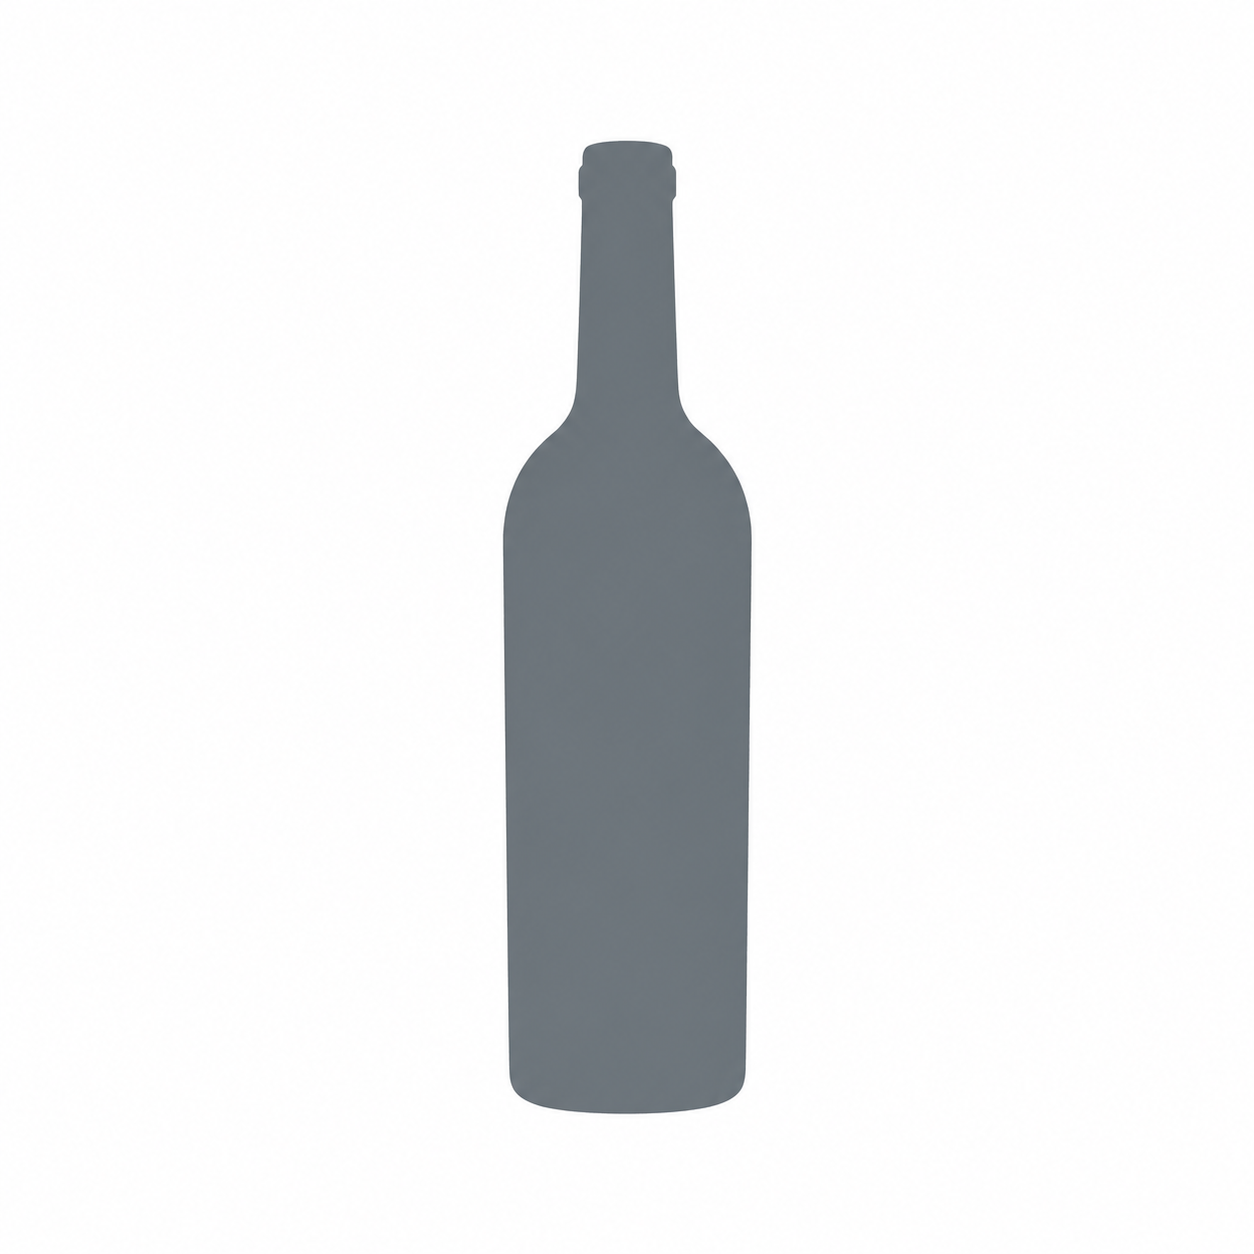
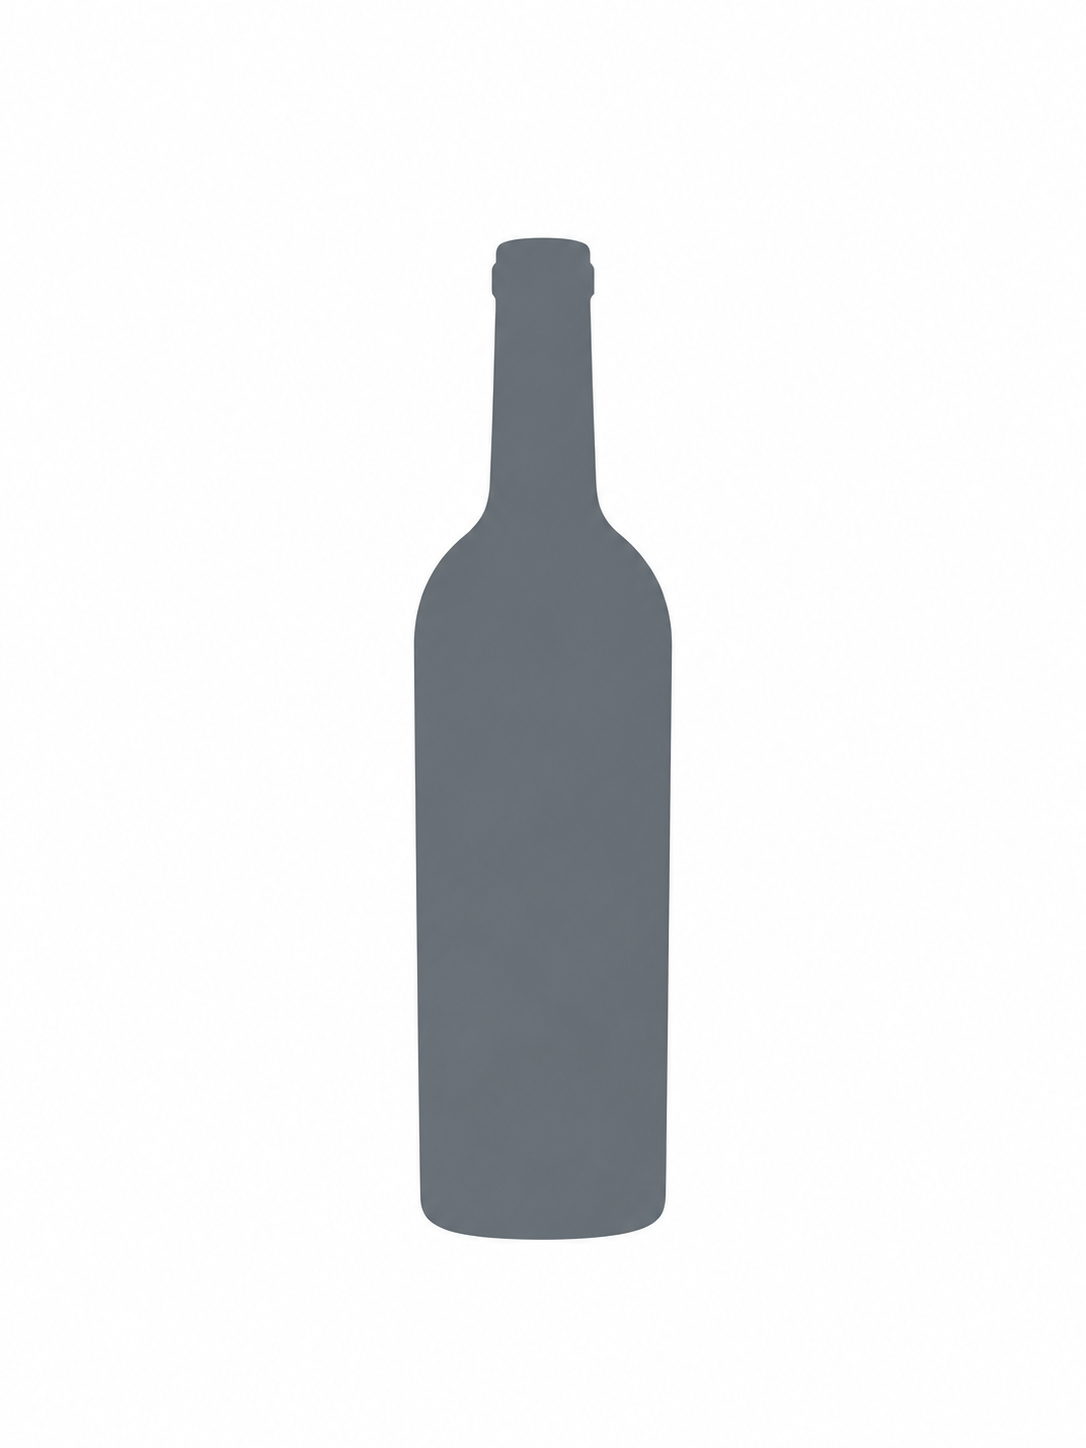
feat: 와인 카드 이미지 표시 및 전체 선택·해제 개선

Changed region(s): [[0.3646, 0.3732, 0.6381, 0.9019], [0.4254, 0.0933, 0.547, 0.3732], [0.547, 0.3421, 0.5773, 0.3732]]

diff --git a/web/src/app/feature/wine-list-select/ui/ExtractedWineSection.stories.tsx b/web/src/app/feature/wine-list-select/ui/ExtractedWineSection.stories.tsx
@@ -1,13 +1,19 @@
 import type { Meta, StoryObj } from "@storybook/nextjs-vite";
+import { useState } from "react";
+import { expect, userEvent, within } from "storybook/test";
 import type { ExtractedWine } from "@/app/entity/wine/model/wine.type";
 import ExtractedWineSection from "./ExtractedWineSection";
 
-function makeWine(overrides: Partial<ExtractedWine> & { id: string }): ExtractedWine {
+function makeWine(
+  overrides: Partial<ExtractedWine> & { id: string },
+): ExtractedWine {
   return {
     wineName: "클라우디 베이 소비뇽 블랑",
     vintage: 2023,
     alcohol: "12.5% ~ 13.0%",
-    price: [{ amount: 55000, currency: "KRW", currencySign: "₩", koreanUnit: "원" }],
+    price: [
+      { amount: 55000, currency: "KRW", currencySign: "₩", koreanUnit: "원" },
+    ],
     country: "New Zealand",
     region: "Marlborough",
     tannin: 1,
@@ -55,18 +61,56 @@ const meta: Meta<typeof ExtractedWineSection> = {
     wines,
     selectedWineIds: ["22222222-2222-4222-8222-222222222222"],
   },
-  render: (args) => (
-    <div className="w-[390px] max-w-full bg-background-03 p-4">
-      <ExtractedWineSection {...args} />
-    </div>
-  ),
+  render: function StatefulSection(args) {
+    const [selectedWineIds, setSelectedWineIds] = useState(
+      args.selectedWineIds,
+    );
+    return (
+      <div className="w-[390px] max-w-full bg-background-03 p-4">
+        <ExtractedWineSection
+          {...args}
+          selectedWineIds={selectedWineIds}
+          onToggleWine={(id) =>
+            setSelectedWineIds((ids) =>
+              ids.includes(id)
+                ? ids.filter((value) => value !== id)
+                : [...ids, id],
+            )
+          }
+        />
+      </div>
+    );
+  },
 };
 
 export default meta;
 
 type Story = StoryObj<typeof ExtractedWineSection>;
 
-export const Default: Story = {};
+export const Default: Story = {
+  play: async ({ canvasElement }) => {
+    const canvas = within(canvasElement);
+    await userEvent.click(canvas.getByRole("button", { name: "전체 선택" }));
+    await expect(canvas.getByText("3개 선택")).toBeVisible();
+    for (const checkbox of canvas.getAllByRole("checkbox"))
+      await expect(checkbox).toBeChecked();
+    await userEvent.click(canvas.getByRole("button", { name: "전체 해제" }));
+    for (const checkbox of canvas.getAllByRole("checkbox"))
+      await expect(checkbox).not.toBeChecked();
+    await expect(
+      canvas.getByRole("button", { name: "전체 선택" }),
+    ).toBeVisible();
+  },
+};
+
+export const Empty: Story = {
+  args: { wines: [], selectedWineIds: [] },
+  play: async ({ canvasElement }) => {
+    await expect(
+      within(canvasElement).getByRole("button", { name: "전체 선택" }),
+    ).toBeDisabled();
+  },
+};
 
 export const NoneSelected: Story = {
   args: { selectedWineIds: [] },

diff --git a/web/src/app/feature/wine-list-select/ui/ExtractedWineCard.stories.tsx b/web/src/app/feature/wine-list-select/ui/ExtractedWineCard.stories.tsx
@@ -1,4 +1,5 @@
 import type { Meta, StoryObj } from "@storybook/nextjs-vite";
+import { expect, fn, userEvent, within } from "storybook/test";
 import type { ExtractedWine } from "@/app/entity/wine/model/wine.type";
 import ExtractedWineCard from "./ExtractedWineCard";
 
@@ -32,6 +33,7 @@ const meta: Meta<typeof ExtractedWineCard> = {
   args: {
     wine: baseWine,
     isSelected: false,
+    onToggle: fn(),
   },
   render: (args) => (
     <div className="w-[360px] max-w-full bg-background-03 p-4">
@@ -44,7 +46,16 @@ export default meta;
 
 type Story = StoryObj<typeof ExtractedWineCard>;
 
-export const Default: Story = {};
+export const Default: Story = {
+  play: async ({ canvasElement, args }) => {
+    const image = canvasElement.querySelector("img")!;
+    await expect(image).toHaveAttribute("src", "/images/wines/wine-white.png");
+    const rect = image.parentElement!.getBoundingClientRect();
+    expect(rect.width / rect.height).toBeCloseTo(3 / 4, 2);
+    await userEvent.click(within(canvasElement).getByRole("checkbox"));
+    await expect(args.onToggle).toHaveBeenCalledWith(baseWine.id);
+  },
+};
 
 export const Selected: Story = {
   args: { isSelected: true },
@@ -53,6 +64,12 @@ export const Selected: Story = {
 export const NotCatalogMatched: Story = {
   args: {
     wine: { ...baseWine, isCatalogMatched: false, wineBottleImageUrl: null },
+  },
+  play: async ({ canvasElement }) => {
+    const canvas = within(canvasElement);
+    await expect(canvasElement.querySelector("img")).toHaveAttribute("src", "/images/wines/wine-bottle.png");
+    await expect(canvas.getByText("이미지 준비중")).toBeVisible();
+    await expect(canvas.getByText("이미지 준비중")).toHaveStyle({ whiteSpace: "pre-line" });
   },
 };
 

diff --git a/web/src/app/feature/wine-list-select/ui/ExtractedWineSection.tsx b/web/src/app/feature/wine-list-select/ui/ExtractedWineSection.tsx
@@ -1,4 +1,5 @@
 import { cn } from "@/app/utils/style/helper";
+import Button from "@/app/shared/ui/atom/button";
 import ExtractedWineCard from "./ExtractedWineCard";
 import type { ExtractedWineSectionProps } from "./wine-list-select.props";
 
@@ -16,16 +17,31 @@ export default function ExtractedWineSection({
   className,
 }: ExtractedWineSectionProps) {
   const selectedSet = new Set(selectedWineIds);
+  const selectedCount = wines.filter((wine) => selectedSet.has(wine.id)).length;
+  const allSelected = wines.length > 0 && selectedCount === wines.length;
+  const toggleAll = () => {
+    for (const wine of wines) {
+      if (allSelected || !selectedSet.has(wine.id)) onToggleWine(wine.id);
+    }
+  };
 
   return (
     <section className={cn("w-full", className)}>
       <div className="flex items-center justify-between gap-3">
-        <h2 className="text-[16px] font-bold leading-none text-ink-emphasis">
-          {title}
-        </h2>
-        {selectedSet.size > 0 ? (
+        <h2 className="sr-only">{title}</h2>
+        <Button
+          htmlType="button"
+          variant="text"
+          radius="full"
+          disabled={wines.length === 0}
+          onClick={toggleAll}
+          className="min-h-11 border border-white/70 bg-white/30 px-3 py-2 text-[13px] font-bold text-primary shadow-none hover:bg-white/50"
+        >
+          {allSelected ? "전체 해제" : "전체 선택"}
+        </Button>
+        {selectedCount > 0 ? (
           <p className="text-[13px] font-bold text-primary">
-            {selectedSet.size}개 선택
+            {selectedCount}개 선택
           </p>
         ) : null}
       </div>

diff --git a/web/src/app/feature/wine-pairing-chat/ui/WineRecommendationSlide.stories.tsx b/web/src/app/feature/wine-pairing-chat/ui/WineRecommendationSlide.stories.tsx
@@ -116,8 +116,11 @@ export const NoImage: Story = {
   },
   play: async ({ canvasElement }) => {
     const canvas = within(canvasElement);
-    await expect(canvas.getByText("준비중...")).toBeVisible();
-    await expect(canvasElement.querySelector("img")).toBeInTheDocument();
+    await expect(canvas.getByText("이미지 준비중")).toBeVisible();
+    await expect(canvasElement.querySelector("img")).toHaveAttribute("src", "/images/wines/wine-bottle.png");
+    await expect(canvas.getByText("이미지 준비중")).toHaveStyle({ whiteSpace: "pre-line" });
+    const imageRect = canvasElement.querySelector("img")!.parentElement!.getBoundingClientRect();
+    expect(imageRect.width / imageRect.height).toBeCloseTo(3 / 4, 2);
     await expect(canvasElement.querySelector("[data-wine-image-skeleton]")).not.toBeInTheDocument();
   },
 };
@@ -178,8 +181,8 @@ export const CompletedWithoutImage: Story = {
     await expect(canvasElement.querySelector("[data-wine-image-skeleton]")).toBeInTheDocument();
     await userEvent.click(canvas.getByRole("button", { name: "추천 완료" }));
     await expect(canvasElement.querySelector("[data-wine-image-skeleton]")).not.toBeInTheDocument();
-    await expect(canvasElement.querySelector("img")).toBeInTheDocument();
-    await expect(canvas.getByText("준비중...")).toBeVisible();
+    await expect(canvasElement.querySelector("img")).toHaveAttribute("src", "/images/wines/wine-bottle.png");
+    await expect(canvas.getByText("이미지 준비중")).toBeVisible();
   },
 };
 

diff --git a/web/src/app/feature/wine-pairing-chat/ui/WineRecommendationSlide.tsx b/web/src/app/feature/wine-pairing-chat/ui/WineRecommendationSlide.tsx
@@ -164,7 +164,7 @@ function RecommendationFront({
       ) : null}
 
       <div className="flex min-h-[136px] items-start gap-4 min-[480px]:min-h-[144px]">
-        <div className="relative flex h-[136px] w-[68px] shrink-0 items-center justify-center overflow-hidden rounded-[12px] bg-white/70 text-primary min-[480px]:h-[144px] min-[480px]:w-[72px]">
+        <div className="relative flex aspect-[3/4] w-[68px] shrink-0 items-center justify-center overflow-hidden rounded-[12px] bg-white/70 text-primary min-[480px]:w-[72px]">
           {showImageSkeleton ? (
             <>
               <WineImageSkeleton />
@@ -173,7 +173,7 @@ function RecommendationFront({
           ) : (
             <>
               <Image
-              src={image.src}
+              src={image.isPlaceholder ? "/images/wines/wine-bottle.png" : image.src}
               alt=""
               fill
               unoptimized
@@ -182,7 +182,7 @@ function RecommendationFront({
               />
               {image.isPlaceholder ? (
                 <div className="absolute inset-0 flex items-center justify-center bg-black/45">
-                  <span className="text-[9px] font-bold text-white">준비중...</span>
+                  <span className="whitespace-pre-line text-center text-[9px] font-bold text-white">{"이미지\n준비중"}</span>
                 </div>
               ) : null}
             </>

diff --git a/web/src/app/feature/wine-list-select/ui/ExtractedWineCard.tsx b/web/src/app/feature/wine-list-select/ui/ExtractedWineCard.tsx
@@ -41,18 +41,18 @@ export default function ExtractedWineCard({
             : "border-white/70 bg-white/[0.12] shadow-[inset_0_1px_0_rgba(255,255,255,0.85),0_12px_30px_rgba(72,52,112,0.06)] hover:border-white/80 hover:bg-white/[0.18]"
         )}
       >
-        <div className="relative aspect-[3/7] w-[54px] shrink-0 overflow-hidden rounded-[12px] bg-white/70">
+        <div className="relative aspect-[3/4] w-[72px] shrink-0 overflow-hidden rounded-[12px] bg-white/70">
           <Image
-            src={image.src}
+            src={image.isPlaceholder ? "/images/wines/wine-bottle.png" : image.src}
             alt=""
             fill
-            sizes="54px"
-            className="object-cover"
+            sizes="72px"
+            className="object-contain p-1"
             unoptimized
           />
           {image.isPlaceholder ? (
             <div className="absolute inset-0 flex items-center justify-center bg-black/45">
-              <span className="text-[9px] font-bold text-white">준비중...</span>
+              <span className="whitespace-pre-line text-center text-[9px] font-bold text-white">{"이미지\n준비중"}</span>
             </div>
           ) : null}
         </div>

diff --git a/plans/wine-chat-image-placeholder-plan.md b/plans/wine-chat-image-placeholder-plan.md
@@ -1,5 +1,9 @@
 # `/wine/chat` 추천 이미지 스켈레톤
 
+추천 카드 이미지 슬롯도 가로:세로 3:4 비율로 맞춘다. 기존 폭 68px(480px 이상 72px)은 유지하고 높이는 aspect-ratio로 결정한다. fallback·실제 사진·추천 중 스켈레톤에 동일한 슬롯을 적용하며 카드 전체 높이와 텍스트 배치는 유지한다.
+
+2026-10-08 변경: 추천 카드의 완료 후 이미지 누락 fallback만 `/images/wines/wine-bottle.png`로 교체한다. 기존 shared Card·Image 슬롯과 `bg-black/45` 오버레이를 유지하고 문구는 `이미지\n준비중` 두 줄로 중앙 정렬한다. 진행 중 점 스켈레톤·실제 사진·상세 뒤집기·API 계약은 유지한다. 공용 resolveWineBottleImage와 wine/list에는 영향을 주지 않는다. NoImage/CompletedWithoutImage 및 사진 수신 전환 스토리로 검증한다.
+
 최종 실루엣 기준: 사용자가 추가로 제공한 병 사진처럼 짧은 캡·가는 목·둥글게 벌어지는 어깨·수직 몸통·거의 평평한 바닥으로 구성한다. 바닥은 끝을 좁히지 않고 모서리만 작게 다듬는다. 표시 조건과 색·애니메이션은 유지한다.
 
 - 기준: 사용자 제공 wine/list 로딩 스크린샷 및 `designs/enhanced_design_3_1.png`의 카드 이미지 영역.

diff --git a/plans/wine-list-enhanced-design-plan.md b/plans/wine-list-enhanced-design-plan.md
@@ -1,5 +1,14 @@
 # `/wine/list` 세션 기반 와인 메뉴 추출 설계
 
+## 2026-10-08 이미지 표시 보완
+
+- 결과 목록의 보이는 제목 대신 shared/ui Button으로 전체 선택/해제 액션을 표시한다. 모든 현재 후보가 선택되었으면 전체 해제, 일부/미선택이면 미선택 후보만 추가 선택한다. 기존 toggleWineId 저장 경로와 선택 개수 표시를 유지하며 제목은 sr-only로 남긴다. 부분 선택·전체 선택·빈 목록·연속 토글을 Storybook으로 검증한다.
+
+- `ExtractedWineCard`의 이미지 슬롯을 너비 72px·가로:세로 3:4 직사각형으로 변경하고 object-contain으로 병 전체를 표시한다.
+- 실제 이미지가 없으면 `/images/wines/wine-bottle.png`와 기존 `bg-black/45` 오버레이, `이미지\n준비중` 두 줄 안내를 표시한다.
+- shared/ui Card, checkbox 선택·클라이언트 경계·API 흐름은 유지한다. 새로운 상태나 API 호출은 추가하지 않는다.
+- style-implementation/css-only-state/storybook-authoring 가이드를 적용하고 사진 유무·긴 이름 스토리와 비율·선택 동작을 검증한다.
+
 ## 1. 범위와 기준
 
 - 대상 라우트: `web/src/app/wine/list/page.tsx`

diff --git a/docs/wine-list.md b/docs/wine-list.md
@@ -1,5 +1,11 @@
 # `/wine/list` 와인 메뉴 추출 개발 문서
 
+## 카드 이미지
+
+결과 목록 상단에는 제목 대신 전체 선택/전체 해제 버튼을 표시한다. 일부 또는 미선택 상태에서는 나머지 후보를 선택하고, 모두 선택된 상태에서는 현재 후보를 모두 해제한다. 오른쪽 선택 개수와 개별 카드 선택은 유지하며 빈 목록에서는 버튼을 비활성화한다. 접근성용 제목은 유지한다.
+
+`ExtractedWineCard`의 이미지 영역은 72×96px(가로:세로 3:4) 직사각형이다. object-contain으로 실제 병 사진 전체를 표시한다. 사진 URL이 비어 있으면 `/images/wines/wine-bottle.png`와 기존 어두운 오버레이(`bg-black/45`), 중앙의 `이미지\n준비중` 두 줄 문구를 표시한다. 카드 선택과 데이터 흐름은 유지한다.
+
 ## 홈 이동과 서버 로그
 
 상단 홈 아이콘은 `/`로 replace 이동한다. 와인 선택 스냅샷을 저장한 후 `/wine/keywords`로 router.replace한다. 선택이 없으면 이동하지 않는다.
